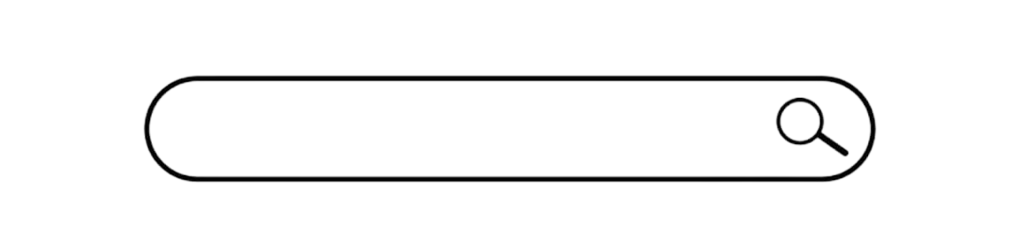
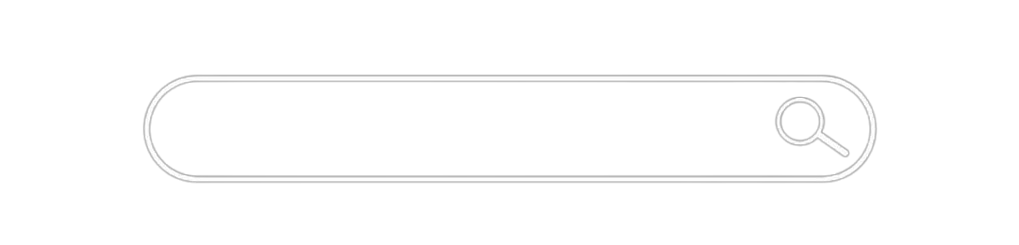
atualizado

Changed region(s): [[0.1217, 0.2857, 0.8822, 0.7714]]

diff --git a/css/style-index.css b/css/style-index.css
@@ -20,8 +20,8 @@ header {
 header img {
     display: flex;
     justify-content: flex-end;
-    height: 70%;
-    margin-right: 3%;
+    height: 40%;
+    margin-right: 7%;
 }
 
 h1{
@@ -29,8 +29,9 @@ h1{
     font-family: "Poppins", sans-serif;
     font-weight: 400;
     font-style: normal;
-    font-size: 1.5rem;
+    font-size: 2rem;
     margin-left: 8%;
+    color: white;
 }
 
 main {
@@ -56,8 +57,9 @@ main p {
 .ajuste{
     display: flex;
     width: 100%;
-    padding: 2% 0%;
+    padding: 5% 0%;
     justify-content: center;
+    color: white;
 }
 
 .ajuste2{
@@ -100,7 +102,8 @@ h2{
     font-family: "Poppins", sans-serif;
     font-weight: 400;
     font-style: normal;
-    font-size: 1.3rem;
+    font-size: 1.5rem;
+    color: white;
 }
 
 .titulo {

diff --git a/css/esstatisticas.css b/css/esstatisticas.css
@@ -25,17 +25,18 @@ main{
 }
 
 .voltar{
-    width: 50%;
-    height: 50%;
-    padding-left: 10%;
+    width: 30%;
+    height: 30%;
+    padding-left: 30%;
 }
 
 h1{
-    font-size: 3rem;
+    font-size: 3.5rem;
     margin-right: 20%;
     font-family: "Poppins", sans-serif;
     font-weight: 400;
     font-style: normal;
+    color: white;
 }
 
 .grafico{
@@ -147,6 +148,7 @@ h2{
     font-family: "Poppins", sans-serif;
     font-weight: 400;
     font-style: normal;
+    color: white;
 }
 a:link, a:visited{
     text-decoration: none;

diff --git a/css/style.css b/css/style.css
@@ -23,6 +23,7 @@ header {
         font-size: 3rem;
         align-items: center;
         font-family: "Poppins", sans-serif;
+        padding-left: 5%;
 }
 img[alt="buscar"]{
         display: flex;
@@ -38,10 +39,16 @@ img[alt="filtro"]{
 }
 .volt {
         display: flex;
-        height: 80%;
-        width: 80%;
-        padding: 0.5%;
+        height: 50%;
+        width: 40%;
 }
+
+h1{
+        display: flex;
+        padding-left: 1rem;
+        font-size: 3rem;
+        color: white;
+    }
 
 .topo {
         display: flex;

diff --git a/css/financeiro-argila.css b/css/financeiro-argila.css
@@ -46,9 +46,10 @@ ul{
 }
 
 .voltar{
-    width: 80%;
-    height: 100%;
-    margin-left: 20%;
+    width: 45%;
+    height: 55%;
+    padding-left: 30%;
+    padding-top: 20%;
 }
 
 .vaso{
@@ -61,6 +62,7 @@ h1{
     font-family: "Poppins", sans-serif;
     font-weight: 400;
     font-style: normal;
+    color: white;
 }
 
 .legenda{
@@ -115,6 +117,7 @@ h2{
     font-family: "Poppins", sans-serif;
     font-weight: 400;
     font-style: normal;
+    color: white;
 }
 
 .ajuste{

diff --git a/estoque.html b/estoque.html
@@ -20,7 +20,7 @@
 <body>
     <header>
         <a href="index.html">
-            <img class="voltar" alt="voltar" src="Imagens/IMAGEM_-_Voltar-removebg-preview.png">
+            <img class="voltar" alt="voltar" src="Imagens/Icon_seta.PNG">
         </a>
         <a href="estoque2.html">
             <img class="pesquisar" alt="pesquisar" src="Imagens/IMAGEM_-_Barra_de_pesquisa-removebg-preview.png">

diff --git a/css/estoque.css b/css/estoque.css
@@ -14,13 +14,11 @@ header{
     align-items: center;
     background-color: #456173;
 }
-.voltar{
-    height: 3rem;
-}
-.pesquisar{
-    height: 5rem;
-}
 
+.img{
+    width: 80%;
+    height: 100%;
+}
 
 footer {
     display: flex;
@@ -76,6 +74,8 @@ li{
     background-color: #456173;
     font-family: "Poppins", sans-serif;
     padding: 0.5rem;
+    color: white;
+
 }
 ul{
     display: flex;

diff --git a/argila.html b/argila.html
@@ -20,7 +20,7 @@
 <body>
     <header>
         <a href="esstatisticas.html">
-            <img class="voltar" alt="voltar" src="Imagens/IMAGEM_-_Voltar-removebg-preview.png">
+            <img class="voltar" alt="voltar" src="Imagens/Icon_seta.PNG">
         </a>
         <h1>Vaso de Argila</h1>
         <img class="vaso" alt="vaso_argila" src="Imagens/IMAGEM_-_Vaso-removebg-preview.png">

diff --git a/css/style2.css b/css/style2.css
@@ -31,10 +31,8 @@ header {
 
 .voltar {
     display: flex;
-    height: 80%;
-    width: 80%;
-    padding: 0.5%;
-    margin-right: 0;
+    height: 50%;
+    width: 40%;
 }
 
 a {
@@ -58,6 +56,13 @@ img[alt="anotacoes"] {
     padding-right: 0rem;
     top: -1%;
     right: 0rem;
+}
+
+h1{
+    display: flex;
+    padding-left: 3rem;
+    font-size: 2rem;
+    color: white;
 }
 
 main {

diff --git a/clientes.html b/clientes.html
@@ -21,7 +21,7 @@
 <body>
     <header>
         <a href="index.html" class="volt">
-        <img alt="voltar" src="Imagens/IMAGEM_-_Voltar-removebg-preview.png" class="voltar">
+        <img alt="voltar" src="Imagens/Icon_seta.PNG" class="voltar">
         </a>
         <h1>Clientes</h1>
         <img alt="buscar" src="Imagens/IMAGEM_-_Lupa-removebg-preview.png" class="topo buscar">

diff --git a/estoque2.html b/estoque2.html
@@ -14,7 +14,7 @@
 <body>
     <header>
         <a href="estoque.html">
-            <img class="img" alt="voltar" src="Imagens/IMAGEM_-_Voltar-removebg-preview.png">
+            <img class="img" alt="voltar" src="Imagens/Icon_seta.PNG">
         </a>
         <img class="img" alt="estoque" src="Imagens/IMAGEM_-_Barra_de_pesquisa-removebg-preview.png">
     </header>

diff --git a/conveers.html b/conveers.html
@@ -21,7 +21,7 @@
 <body>
     <header>
         <a href="clientes.html">
-            <img alt="voltar" src="Imagens/IMAGEM_-_Voltar-removebg-preview.png">
+            <img alt="voltar" src="Imagens/Icon_seta.PNG">
         </a>
         <img alt="foto de perfil" src="Imagens/IMAGEM_-_Imagem_Círculo-removebg-preview.png">
         <h1>José da Silva</h1>

diff --git a/index.html b/index.html
@@ -21,7 +21,7 @@
 <body>
     <header>
         <h1>Bem-vindo, Usuário!</h1>
-        <img alt="Configurações" src="Imagens/IMAGEM_-_Configurações-removebg-preview.png">
+        <img alt="Configurações" src="Imagens/Icon_menu_aberto.PNG">
     </header>
     <main>
         <article class="entregas">
